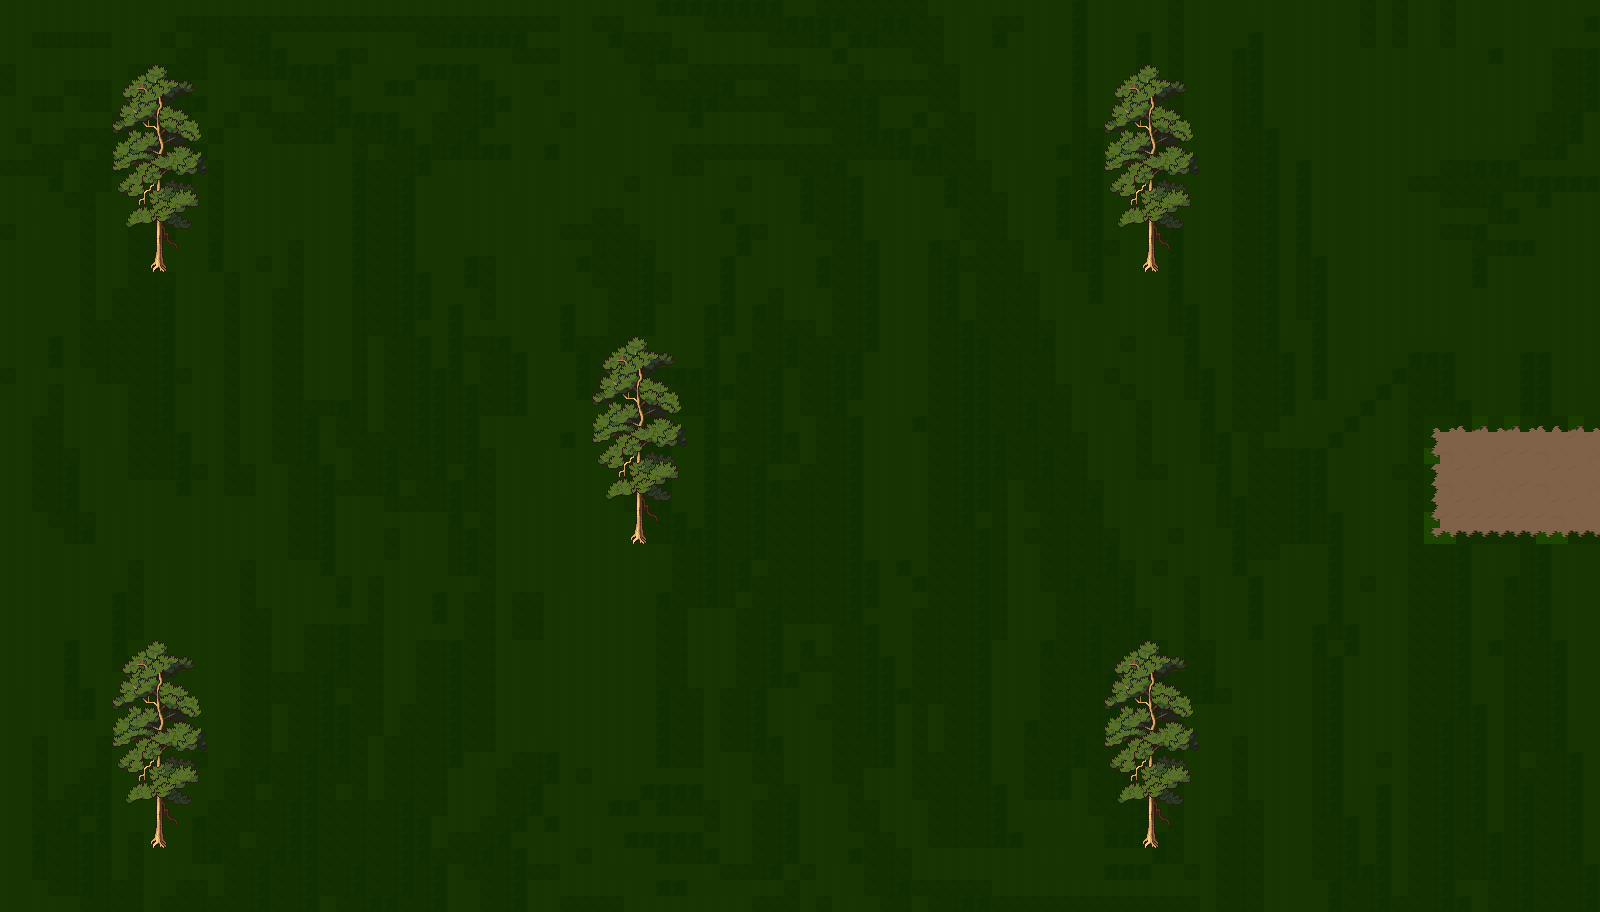
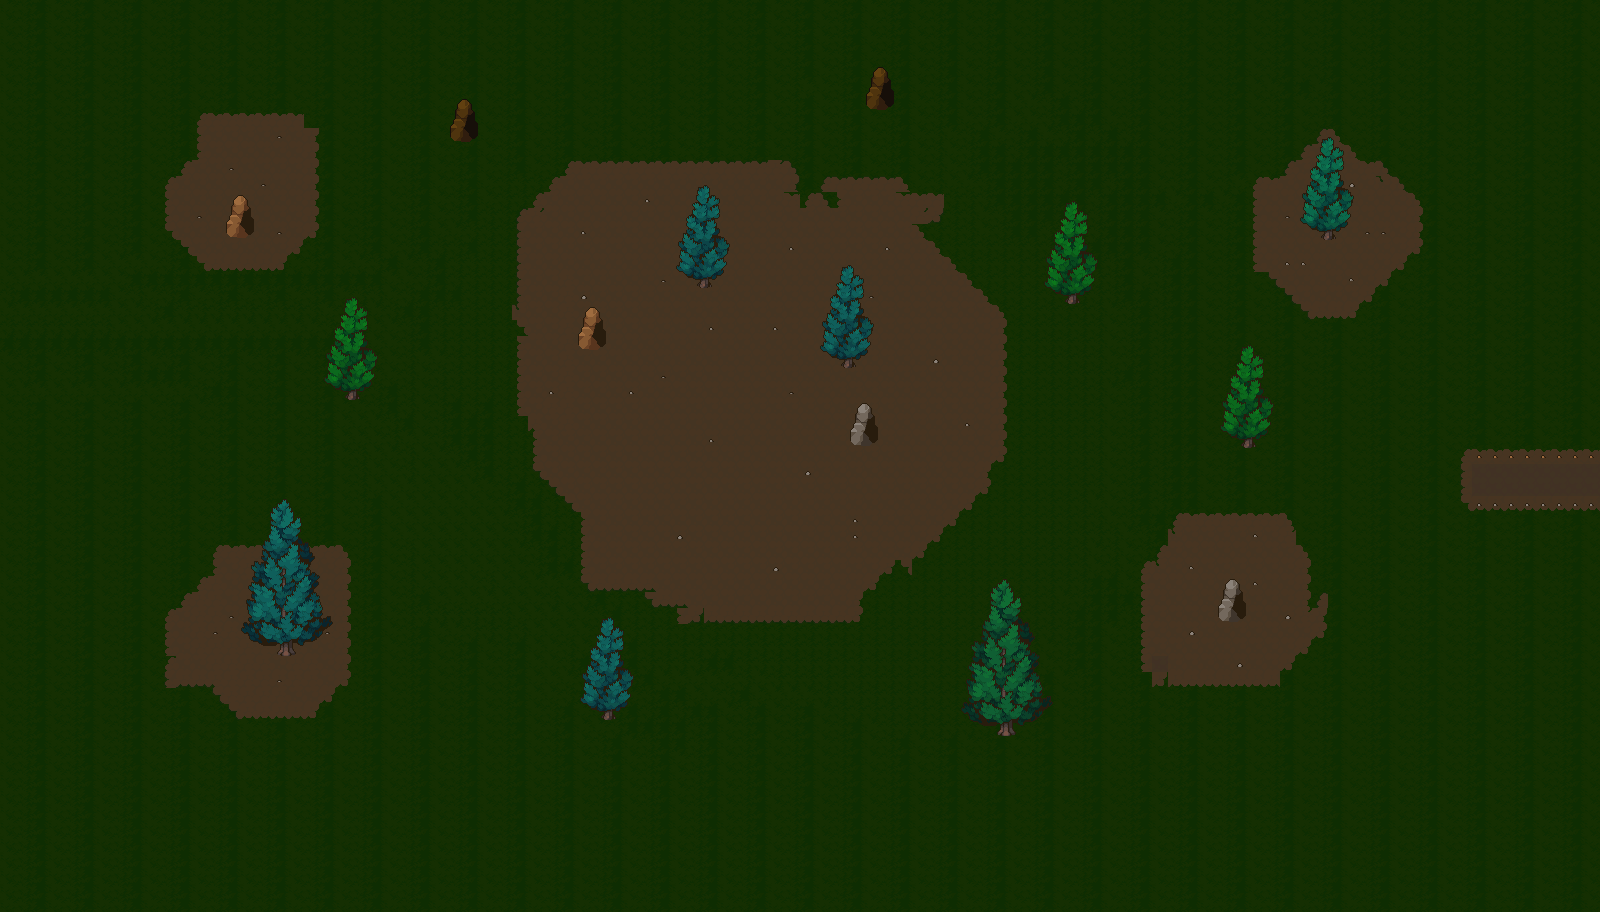
Enemy AI and Obstacles
Change enemy AI and fix collision logic. Implement enemy attack and change player attack anim. Insert obstacles for 1 map. Pending proper obstacle coordinates.

diff --git a/src/game.c b/src/game.c
@@ -17,7 +17,7 @@
 #include <math.h>
 
 Player knight;
-CP_Image bg, arrow;
+CP_Image bg, arrow, bg2;
 Enemy dummy;
 float Vec_X, Vec_Y, dist, Norm_X, Norm_Y, VDP_X, VDP_Y, VDP_dist, NVDP_X, NVDP_Y;
 
@@ -25,11 +25,11 @@ Bullet bullets[MAX_BULLETS];
 char text[100];
 CP_Font font_menu = NULL;
 
-Obstacle obstacle[3];
-float Obs_X[MAX_OBSTACLE] = { 400, 200, 1200 };
-float Obs_Y[MAX_OBSTACLE] = { 200, 700, 600 };
-float Obs_W[MAX_OBSTACLE] = { 30, 60, 90 };
-float Obs_H[MAX_OBSTACLE] = { 40, 80, 160 };
+Obstacle obstacle[5];
+float Obs_X[MAX_OBSTACLE] = { 400, 200, 1200, 688.3f, 1488};
+float Obs_Y[MAX_OBSTACLE] = { 200, 700, 600, 207.99f, 232.5f};
+float Obs_W[MAX_OBSTACLE] = { 30, 60, 90, 64.66f, 32.5f};
+float Obs_H[MAX_OBSTACLE] = { 40, 80, 160, 32.66f, 16.5f};
 
 //---------------------------------------------------------
 //Darrel
@@ -56,10 +56,10 @@ float overlapX, overlapY;
 
 void Game_Init(void)
 {
-    knight.x = 800.0f;
-    knight.y = 450.0f;
-    knight.speed = 200.0f;
-    knight.state = IDLE;
+	knight.x = 800.0f;
+	knight.y = 450.0f;
+	knight.speed = 200.0f;
+	knight.state = IDLE;
 	knight.width = 50;
 	knight.height = 60;
 
@@ -81,13 +81,24 @@ void Game_Init(void)
 	Norm_X = 0.0f;
 	Norm_Y = 0.0f;
 
-    bg = CP_Image_Load(maps[current_level][random[current_level]].image_path);
+	bg = CP_Image_Load(maps[current_level][random[current_level]].image_path);
+	if ((maps[current_level][random[current_level]].obstacle_path) != NULL)
+	{
+		bg2 = CP_Image_Load((maps[current_level][random[current_level]].obstacle_path));
+	}
+	else
+	{
+	
+	bg2 = NULL;
+	}
+	int rac = random[current_level];
 	arrow = CP_Image_Load("Assets/Arrow.png");
     Anim_Init(&knight.idle, "Assets/Knight_Idle.png", 120, 80, 0.12f, 1);
     Anim_Init(&knight.run, "Assets/Knight_Run.png", 120, 80, 0.12f, 1);
     Anim_Init(&knight.attack, "Assets/Knight_Attack.png", 120, 80, 0.10f, 0);
-	Anim_Init(&dummy.idle, "Assets/RP_Idle.png", 32, 32, 0.12f, 1);
-	Anim_Init(&dummy.run, "Assets/RP_Run.png", 32, 32, 0.12f, 1);
+	Anim_Init(&dummy.idle, "Assets/Bear_Idle.png", 32, 32, 0.12f, 1);
+	Anim_Init(&dummy.run, "Assets/Bear_Run.png", 32, 32, 0.12f, 1);
+	Anim_Init(&dummy.attack, "Assets/Bear_Attack.png", 32, 32, 0.10f, 0);
 
 	font_menu = CP_Font_Load("./Assets/Exo2-Regular.ttf");
 	CP_Font_Set(font_menu); //set the font used
@@ -346,32 +357,53 @@ void Game_Update(void)
 		NVDP_X = VDP_X / VDP_dist;
 		NVDP_Y = VDP_Y / VDP_dist;
 	}
+
+	int touching = IsSquareColliding2(dummy.x, dummy.y, dummy.width, dummy.height,
+		knight.x, knight.y, knight.width, knight.height);
 	if (VDP_dist <= 300 && dummy.counter != 0 && Paused != 1) {
 		dummy.chase = 1;
 	}
 	else {
 		dummy.chase = 0;
 	}
-	if (dummy.chase == 1 && GAMEOVER != 1) {
+	if (dummy.chase == 1 && !touching && dummy.state != ATTACK && GAMEOVER != 1) {
 		dummy.x += (NVDP_X * 200.0f) * dt;
 		dummy.y += (NVDP_Y * 200.0f) * dt;
 	}
-	if (dummy.counter != 0) {
-		dummy.state = dummy.chase == 1 ? RUN : IDLE;
-		// check if player is on which side of the enemy
+	if (dummy.counter != 0) 
+	{
+		if (dummy.state != ATTACK)
+		{
+			dummy.state = (dummy.chase == 1 && !touching) ? RUN : IDLE;
+		}
 		dummy.is_right = knight.x > dummy.x ? 1 : 0;
-		// turns right if enemy is on the right
 		draw_width = dummy.is_right == 1 ? 80 : -80;
+	
+		//if (dummy.state != ATTACK) {
+		//	dummy.state = dummy.chase == 1 ? RUN : IDLE;
+		//}
+		//// check if player is on which side of the enemy
+		//dummy.is_right = knight.x > dummy.x ? 1 : 0;
+		//// turns right if enemy is on the right
+		//draw_width = dummy.is_right == 1 ? 80 : -80;
 
 		switch (dummy.state)
 		{
 		case IDLE:
 			Anim_Update(&dummy.idle, dt);
-			Anim_Draw(&dummy.idle, dummy.x, dummy.y - dummy.height / 2.0f, draw_width, 80);
+			Anim_Draw(&dummy.idle, dummy.x, dummy.y, draw_width, 80);
 			break;
 		case RUN:
 			Anim_Update(&dummy.run, dt);
 			Anim_Draw(&dummy.run, dummy.x, dummy.y, draw_width, 80);
+			break;
+		case ATTACK:
+			if (Anim_Update(&dummy.attack, dt))
+			{
+				dummy.state = IDLE;
+			}
+			Anim_Draw(&dummy.attack, dummy.x, dummy.y, draw_width, 80);
+			break;
 		}
 		CP_Settings_Fill(CP_Color_Create(0, 0, 0, 255));
 		snprintf(text, sizeof(text), "%d", dummy.counter);
@@ -405,13 +437,19 @@ void Game_Update(void)
 	}
 	//If Player and Dummt collide, lose a life and reset player position.
 	//if (IsSquareCircleColliding(dummy.x, dummy.y, dummy.width, dummy.height, knight.x, knight.y, knight.size / 2.0f) && dummy.counter != 0 && Paused == 0)
-	if (IsSquareColliding2(dummy.x, dummy.y, dummy.width, dummy.height,knight.x, knight.y, knight.width, knight.height) && dummy.counter != 0 && Paused == 0) {
+	if (IsSquareColliding2(dummy.x, dummy.y, dummy.width, dummy.height,knight.x, knight.y, knight.width, knight.height)
+		&& dummy.counter != 0 && Paused == 0 && dummy.state != ATTACK) 
+	{
+		dummy.state = ATTACK;
+		Anim_Reset(&dummy.attack);
 		// Handle collision
+		
 		HPBARHEALTH -= 0.10f;
 		hitTimer = 0.15f;
 		if (HPBARHEALTH < 0) {
 			HPBARHEALTH = 0;
 		}
+		
 	}
 	//If Player and SpeedBoost collide, gain a speed boost for 5 seconds.
 	if (speedboost.collected != 1) {
@@ -569,6 +607,12 @@ void Game_Update(void)
 	//CP_Graphics_DrawCircle(knight.x, knight.y, knight.size);
 	if (CP_Input_KeyDown(KEY_Q)) {
 		CP_Engine_SetNextGameState(Main_Menu_Init, Main_Menu_Update, Main_Menu_Exit);
+	}
+	CP_Settings_ImageMode(CP_POSITION_CORNER);
+	
+	if (bg2 != NULL)
+	{
+		CP_Image_Draw(bg2, 0, 0, windowLength, windowHeight, 255);
 	}
 }
 

diff --git a/src/game.h b/src/game.h
@@ -10,7 +10,7 @@
 //---------------------------------------------------------
 #define LEVELS 3
 #define MAPS_PER_LEVEL 3
-#define MAX_OBSTACLE 3
+#define MAX_OBSTACLE 5
 #define MAX_BULLETS 5
 
 void Game_Init(void);
@@ -22,7 +22,7 @@ void Game_Exit(void);
 typedef struct MapData
 {
     const char* image_path;
-    CP_Image image;        
+	const char* obstacle_path;
   
 } MapData;
 

diff --git a/src/mainmenu.c b/src/mainmenu.c
@@ -20,7 +20,7 @@ CP_Image bg;
 MapData maps[LEVELS][MAPS_PER_LEVEL] =
 {
 	// Level 1: real maps
-	{ {"./Assets/A.png"}, {"./Assets/B.png"}, {"./Assets/C.png"} },
+	{ {"./Assets/A.png"}, {"./Assets/B.png"}, {"./Assets/C.png", "./Assets/obs1.png"}},
 
 	// Level 2: reuse lvl1 images for now as placeholders
 	{ {"./Assets/A.png"}, {"./Assets/B.png"}, {"./Assets/C.png"} },
